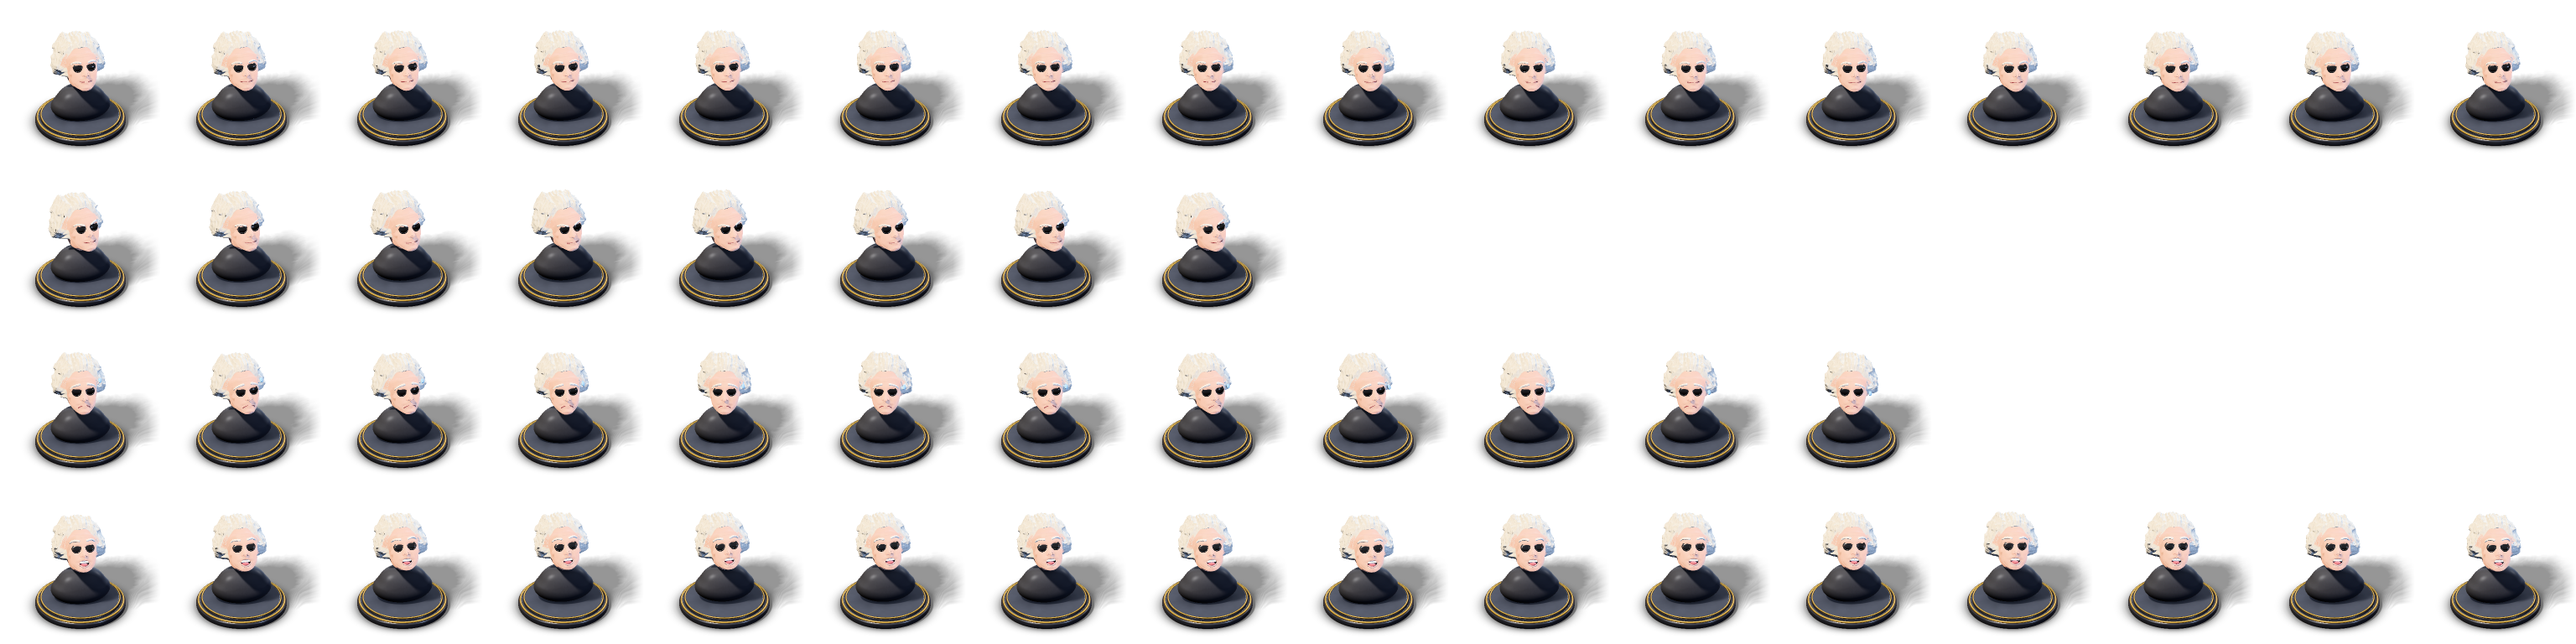
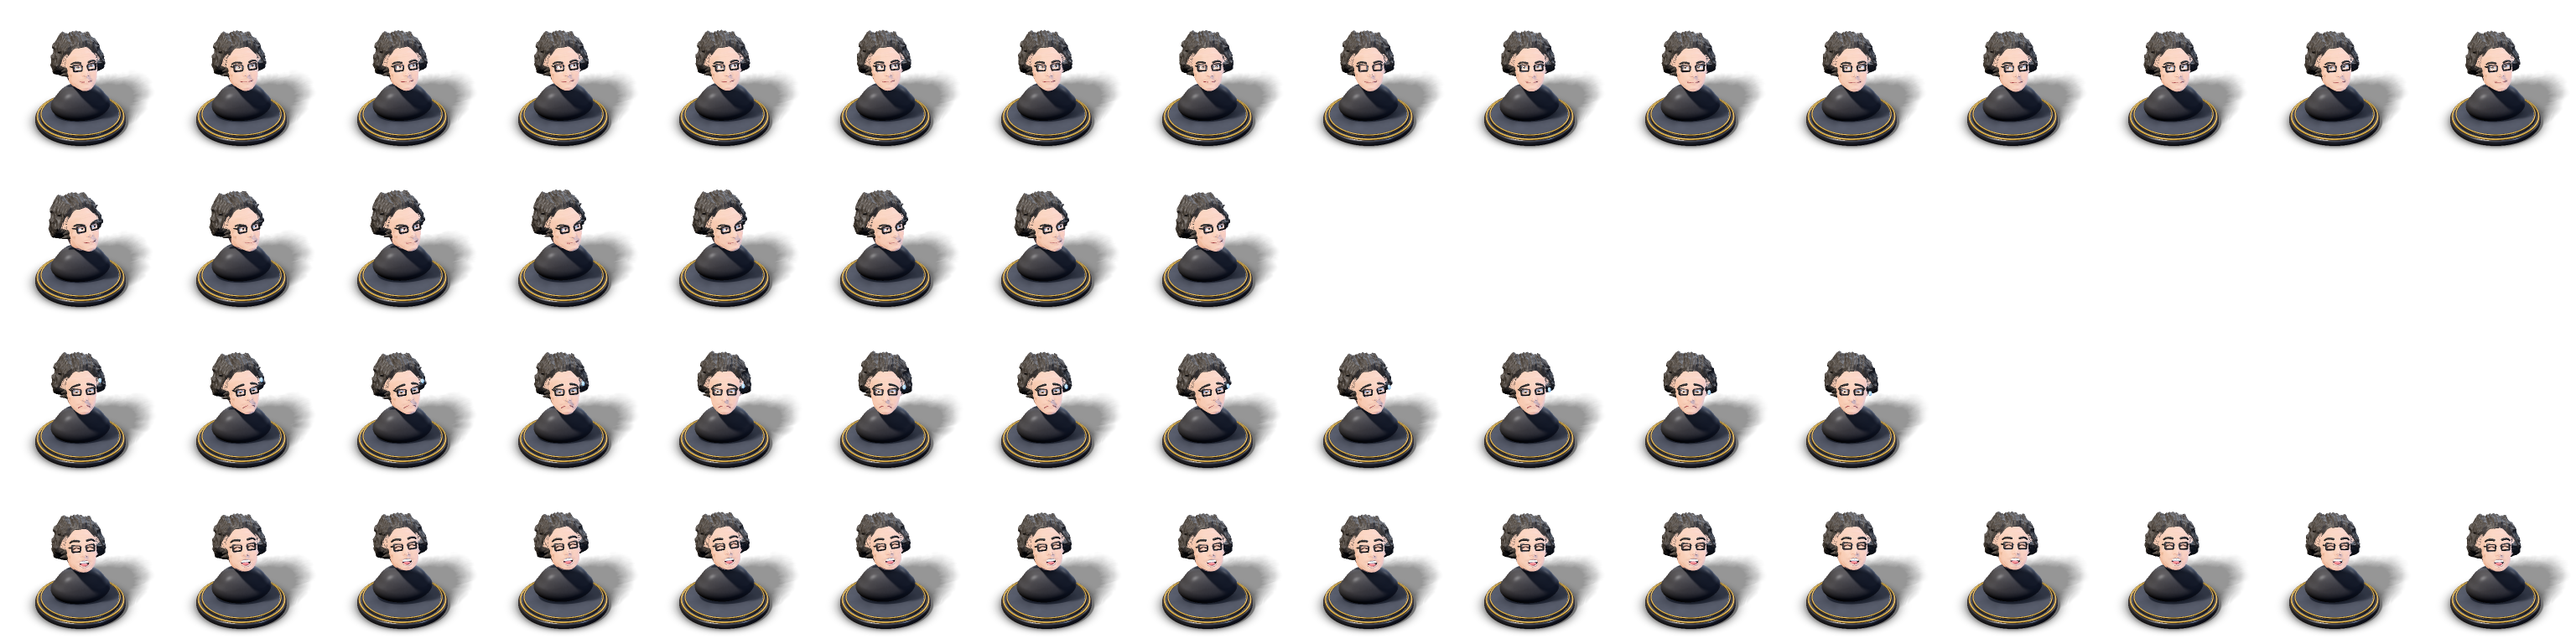
app: the human figurine with glasses of a thick black squarish frame (the eyes visible, no lens drawn) instead of sunglasses; hair and brows black for Black, white for White

diff --git a/doc/yolah_app.html b/doc/yolah_app.html
@@ -2334,7 +2334,7 @@ cmake<span class="w"> </span>-S<span class="w"> </span>app<span class="w"> </spa
 <div class="tablewrap"><table>
 <tr><th>File</th><th>Role</th></tr>
 <tr><td><code>render.py</code></td><td>a small renderer: shapes as signed distance functions (spheres, rounded boxes, capsules, tori...), each with a transform and a material; sphere tracing from an orthographic camera looking down at 32°; a warm key light with soft shadows, a cool fill, a rim light, ambient occlusion, GGX highlights, a studio environment for the metals, glass, emissive parts with bloom, a ground plane that keeps only the contact shadow; rendered twice larger and averaged down</td></tr>
-<tr><td><code>models.py</code></td><td>the characters: <code>model(anim, t, side)</code> builds the scene of one frame (the human, the author's figurine: the face of their photos (<code>portrait.py</code>), animated eyes, lids, brows and mouth, a wild white mane swept back, bushy white brows, black sunglasses, a plain top, black or white by side; one robot per AI, from a wind-up tin toy to an energy core)</td></tr>
+<tr><td><code>models.py</code></td><td>the characters: <code>model(anim, t, side)</code> builds the scene of one frame (the human, the author's figurine: the face of their photos (<code>portrait.py</code>), animated eyes, lids, brows and mouth, a wild mane swept back and bushy brows, black for Black and white for White, glasses with a thick black frame, a plain top, black or white by side; one robot per AI, from a wind-up tin toy to an energy core)</td></tr>
 <tr><td><code>portrait.py</code></td><td>the human's face from the author's webcam photos: a 3D morphable model fitted by 3DDFA_V2 (front and three-quarter, identity only), baked into <code>ref/human_face3d.npz</code>: the depth of the face over the head's grid, its outline, the 68 keypoints, and the albedo with the photo's lighting removed (a spherical-harmonics light fitted on the face's normals) and its colour casts taken out; <code>models.py</code> makes the face a solid behind that depth, inside the outline, with the cranium and the jaw behind it</td></tr>
 <tr><td><code>build.py</code></td><td>renders idle (16 frames), move (8), blocked (12) and win (16) for both sides into <code>assets/art/fig_&lt;name&gt;[_blanc]</code></td></tr>
 <tr><td><code>space.py</code></td><td>the space theme: background, planet, squares, vortex hole, frame</td></tr>

diff --git a/doc/src/yolah_app/05_app_looks.html b/doc/src/yolah_app/05_app_looks.html
@@ -191,7 +191,7 @@ int px = int(std::floor((a.in.mouse.x - canvas.x) / cell)), py = int(std::floor(
 <div class="tablewrap"><table>
 <tr><th>File</th><th>Role</th></tr>
 <tr><td><code>render.py</code></td><td>a small renderer: shapes as signed distance functions (spheres, rounded boxes, capsules, tori...), each with a transform and a material; sphere tracing from an orthographic camera looking down at 32°; a warm key light with soft shadows, a cool fill, a rim light, ambient occlusion, GGX highlights, a studio environment for the metals, glass, emissive parts with bloom, a ground plane that keeps only the contact shadow; rendered twice larger and averaged down</td></tr>
-<tr><td><code>models.py</code></td><td>the characters: <code>model(anim, t, side)</code> builds the scene of one frame (the human, the author's figurine: the face of their photos (<code>portrait.py</code>), animated eyes, lids, brows and mouth, a wild white mane swept back, bushy white brows, black sunglasses, a plain top, black or white by side; one robot per AI, from a wind-up tin toy to an energy core)</td></tr>
+<tr><td><code>models.py</code></td><td>the characters: <code>model(anim, t, side)</code> builds the scene of one frame (the human, the author's figurine: the face of their photos (<code>portrait.py</code>), animated eyes, lids, brows and mouth, a wild mane swept back and bushy brows, black for Black and white for White, glasses with a thick black frame, a plain top, black or white by side; one robot per AI, from a wind-up tin toy to an energy core)</td></tr>
 <tr><td><code>portrait.py</code></td><td>the human's face from the author's webcam photos: a 3D morphable model fitted by 3DDFA_V2 (front and three-quarter, identity only), baked into <code>ref/human_face3d.npz</code>: the depth of the face over the head's grid, its outline, the 68 keypoints, and the albedo with the photo's lighting removed (a spherical-harmonics light fitted on the face's normals) and its colour casts taken out; <code>models.py</code> makes the face a solid behind that depth, inside the outline, with the cranium and the jaw behind it</td></tr>
 <tr><td><code>build.py</code></td><td>renders idle (16 frames), move (8), blocked (12) and win (16) for both sides into <code>assets/art/fig_&lt;name&gt;[_blanc]</code></td></tr>
 <tr><td><code>space.py</code></td><td>the space theme: background, planet, squares, vortex hole, frame</td></tr>

diff --git a/app/tools/sprites/models.py b/app/tools/sprites/models.py
@@ -372,7 +372,7 @@ def lid_mat(edge, upper=True):
     return Mat(SKIN, rough=0.45, sss=0.4, pattern=pat)
 
 
-def human(anim, t, side, outfit="plain", shades=True):       # shades: black sunglasses
+def human(anim, t, side, outfit="plain", shades=True):       # shades: glasses with a thick black frame
     """outfit: "plain" (a plain top, black or white by side; the default),
     "coat" (a long light-grey coat open on a plain white shirt), "hoodie" (a hooded zip sweatshirt) or "legendes" (a tunic, a cloak
     held by a brooch, a leather strap: the human in the Légendes set)."""
@@ -381,7 +381,7 @@ def human(anim, t, side, outfit="plain", shades=True):       # shades: black sun
     lip = Mat("#b08e84", rough=0.5, sss=0.2, clearcoat=0.15)
     mouth_in = Mat("#4a1418", rough=0.6)
     teeth = Mat("#f3efe6", rough=0.25, clearcoat=0.6)
-    brow = Mat("#d6d0c6", rough=0.9)
+    brow = Mat("#d6d0c6" if side == 1 else "#141313", rough=0.9)
     # expression parameters
     yaw, pitch, roll, bob = 0.0, 0.0, 0.0, 0.0
     gaze = (0.1, 0.0, 1.0)
@@ -538,15 +538,18 @@ def human(anim, t, side, outfit="plain", shades=True):       # shades: black sun
         for k in range(4):
             sc.add(lambda q, a_=bp[k], b_=bp[k + 1], r0=0.006 + 0.001 * k: sd_capsule(a_, b_, r0, r0 + 0.001)(q) - 0.003 * fbm(q * 400.0, 2),
                    brow, head, blend=0.003)                                       # bushy
-    if shades:   # black sunglasses: two lenses over the eyes, a bridge, the arms back to the ears
-        lens = Mat("#050506", rough=0.08, clearcoat=1.5, metal=0.3)
-        frame = Mat("#0c0c0e", rough=0.3, clearcoat=0.8)
+    if shades:   # glasses with a thick black frame (squarish, rounded corners); the lenses, clear, are not drawn
+        frame = Mat("#0b0b0d", rough=0.25, clearcoat=1.0)
         for sgn in (-1, 1):
-            c = head * T(0.085 * sgn, 0.028, 0.252) * RY(0.18 * sgn) * RX(-0.05)
-            sc.add(sd_ellipsoid(0.056, 0.04, 0.008), lens, c)
-            sc.add(sd_torus(0.05, 0.005), frame, c * RX(math.pi / 2) * T(0, 0, 0) , blend=0.0)
-            sc.add(sd_capsule((0.13 * sgn, 0.04, 0.23), (0.19 * sgn, 0.035, 0.0), 0.005), frame, head)
-        sc.add(sd_capsule((-0.032, 0.045, 0.262), (0.032, 0.045, 0.262), 0.006), frame, head)
+            c = head * T(0.088 * sgn, 0.03, 0.262) * RY(0.16 * sgn) * RX(-0.05)
+
+            def rim(q):
+                outer = sd_box(0.064, 0.05, 0.008, 0.02)(q)
+                inner = sd_box(0.047, 0.034, 0.02, 0.013)(q)
+                return torch.maximum(outer, -inner)
+            sc.add(rim, frame, c)
+            sc.add(sd_capsule((0.148 * sgn, 0.045, 0.232), (0.188 * sgn, 0.04, 0.0), 0.007), frame, head)   # the arms
+        sc.add(sd_capsule((-0.032, 0.045, 0.264), (0.032, 0.045, 0.264), 0.007), frame, head)               # the bridge
     # mouth: lips along a curve (smile > 0: corners up), the mouth open by open_m
     mw = 0.074
     pts = []
@@ -581,7 +584,10 @@ def human(anim, t, side, outfit="plain", shades=True):       # shades: black sun
         u = top * (1 - side_w) + sid * side_w
         big = fbm(q * 12.0 + 2.0, 3)
         greyness = (0.75 + 0.2 * side_w + 0.3 * (big - 0.5)).clamp(0, 1)       # white, ivory in the shade
-        dark, mid, light = srgb("#7a756c"), srgb("#b6b1a6"), srgb("#dedbd3")
+        if side == 0:      # Black: black hair
+            dark, mid, light = srgb("#0c0b0b"), srgb("#1e1c1b"), srgb("#3a3836")
+        else:              # White: white hair
+            dark, mid, light = srgb("#7a756c"), srgb("#b6b1a6"), srgb("#dedbd3")
         g = smoothstep(0.75 - greyness, 1.0 - greyness * 0.5, u)
         a = dark * (1 - g[:, None]) + mid * g[:, None]
         a = a * (1 - (smoothstep(0.62, 0.8, u) * greyness)[:, None]) + light * (smoothstep(0.62, 0.8, u) * greyness)[:, None]
